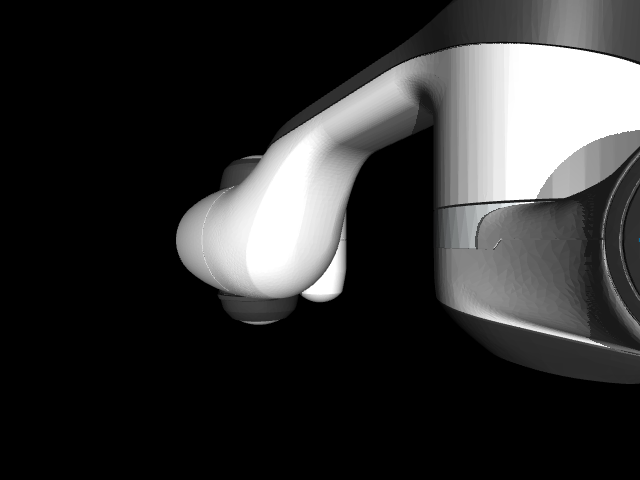
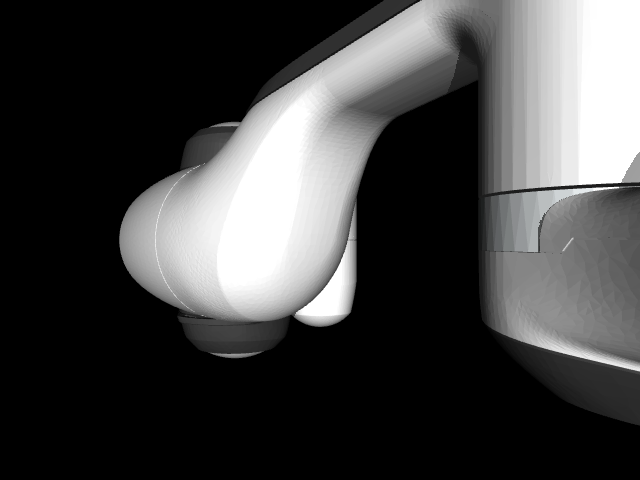
my depth and camera fixes

diff --git a/render_camera.py b/render_camera.py
@@ -13,31 +13,59 @@ model = mujoco.MjModel.from_xml_path(str(xml_path))
 data = mujoco.MjData(model)
 
 # (Optional) nicer initial pose
-initial_qpos = [0, -0.5, 0, -1.2, 0, 1.6, 0]
-data.qpos[:7] = initial_qpos
+initial_qpos = [0.0, -0.5, 0.0, -1.2, 0.0, 1.6, 0.0]
+data.qpos[:len(initial_qpos)] = initial_qpos
 mujoco.mj_forward(model, data)
+
+# ------------ Inspect camera ------------
+cam_id = mujoco.mj_name2id(model, mujoco.mjtObj.mjOBJ_CAMERA, CAMERA_NAME)
+print("Camera ID:", cam_id)
+print("Original cam_pos:", model.cam_pos[cam_id])
+print("Original cam_quat:", model.cam_quat[cam_id])
+
+# ------------ Force camera pose ------------
+# Put camera above the robot, looking down
+model.cam_pos[cam_id] = np.array([0.0, 0.0, 1.2])      # x, y, z
+model.cam_quat[cam_id] = np.array([1.0, 0.0, 0.0, 0.0])  # identity quaternion
+
+# Safer near/far for depth
+model.vis.map.znear = 0.01
+model.vis.map.zfar = 5.0
 
 # Ensure offscreen buffer big enough
 model.vis.global_.offwidth = W
 model.vis.global_.offheight = H
 
+# Recompute after changing camera settings
+mujoco.mj_forward(model, data)
+
+print("Adjusted cam_pos:", model.cam_pos[cam_id])
+print("Adjusted cam_quat:", model.cam_quat[cam_id])
+
 # ------------ Render RGB + Depth ------------
 with mujoco.Renderer(model, width=W, height=H) as renderer:
     # --- RGB ---
     renderer.update_scene(data, camera=CAMERA_NAME)
-    rgb = renderer.render()                          # H x W x 3, uint8
+    rgb = renderer.render()  # H x W x 3, uint8
+    print("RGB min/max:", rgb.min(), rgb.max())
 
     # --- Depth ---
     renderer.enable_depth_rendering()
     renderer.update_scene(data, camera=CAMERA_NAME)
-    depth = renderer.render()                        # H x W, float32, meters
+    depth = renderer.render()  # H x W, float32, meters
     renderer.disable_depth_rendering()
+    print("Depth min/max:", float(depth.min()), float(depth.max()))
 
+# ------------ Save images ------------
 # Save RGB image
 cv2.imwrite("top_rgb.png", cv2.cvtColor(rgb, cv2.COLOR_RGB2BGR))
 
-# Save depth visualization
-depth_norm = (depth - depth.min()) / (depth.max() - depth.min() + 1e-8)
-cv2.imwrite("top_depth.png", (depth_norm * 255).astype(np.uint8))
+# Save depth visualization if it’s not constant
+if np.isclose(depth.max(), depth.min()):
+    print("Warning: depth is constant (camera may see nothing meaningful), not saving depth image.")
+else:
+    depth_norm = (depth - depth.min()) / (depth.max() - depth.min())
+    depth_img = (depth_norm * 255).astype(np.uint8)
+    cv2.imwrite("top_depth.png", depth_img)
 
-print("Saved top_rgb.png and top_depth.png")
+print("Done. Check top_rgb.png and (if created) top_depth.png")

diff --git a/run_franka.py b/run_franka.py
@@ -12,7 +12,7 @@ model = mujoco.MjModel.from_xml_path(str(xml_path))
 data = mujoco.MjData(model)       # <-- THIS WAS MISSING
 
 # Put the arm in a nicer initial pose (optional)
-initial_qpos = [0.0, -0.5, 0.0, -1.2, 0.0, 1.6, 0.0]
+initial_qpos = [0.0, -0.1, 0.0, -1.2, 0.0, 1.6, 0.0]
 data.qpos[:len(initial_qpos)] = initial_qpos
 mujoco.mj_forward(model, data)
 
@@ -29,3 +29,4 @@ with viewer.launch_passive(model, data) as v:
         mujoco.mj_forward(model, data)
         mujoco.mj_step(model, data)
         v.sync()
+
